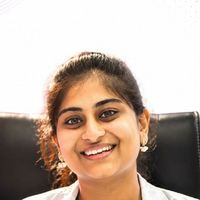
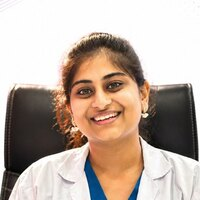
The doctors' faces are cut from the eye line, not the top of the picture
All eleven circles were framed wrong, and in the same way. The crops were
200px squares taken from the TOP of each 640x800 studio portrait, which is
not where a face is. The circular mask then clipped the top of every head
and left a crescent of empty white under every chin, and because the
subjects stand at different heights in their portraits, no two heads came
out the same size or on the same line.

Cut from the eye line now. macOS Vision (built in, no model to download)
gives the face box and the eye centre for each portrait; the window is
2.55x the face height, centred on the eyes, with the eye line 44% of the
way down it, clamped to the edges of the picture. All eleven heads come
out the same size, centred, with the hair inside the circle.

Tried 2.45 and 2.62 first: the tight one let two heads touch the top of
the circle, the loose one shrank the faces too far for a 62px avatar.

The filenames did not change, so the eleven img tags carry ?v= now —
without it a browser and the CDN both keep serving yesterday's framing.

tools/ keeps the two scripts and a README, so the crops can be redone if
the portraits are ever replaced rather than being a one-off nobody can
reproduce. Old crops are in git if these need to be backed out.

Verified at 1728x967: 11 images, none broken, all 200x200, rendering at
62px (founder 40px), object-fit cover inside a 50% radius.

diff --git a/index.html b/index.html
@@ -287,12 +287,17 @@
              made that column 330px taller than the text beside it; it is a row
              of its own across the full hero now. He is kept out of the MD (DVL)
              row on purpose — his degree is an MBA — and carries his own line.
-             The faces are 330px squares cut from the top of the studio portraits
-             in assets/img/doctors/ and written to .../doctors/face/ — 4-6 KB each
-             rather than the 60 KB full-length portrait, for a 62px circle. -->
+             The faces were 330px squares cut from the TOP of the studio portraits,
+             which is not where the faces are: the circle clipped the top of every
+             head and left a crescent of empty white under every chin. They are cut
+             from the eye line now — macOS Vision gives the face box and the eye
+             centre, the window is 2.55x the face height, and the eyes sit 44% down
+             it, so all eleven heads come out the same size and centred in the
+             circle. 6-9 KB each rather than the 60 KB full-length portrait, for a
+             62px circle. Re-cut with the script if the portraits are replaced. -->
         <div class="hdocs">
           <a class="hdocs__founder" href="#doctors" title="Nagaraju Bandaru — వ్యవస్థాపకుడు &amp; CEO, MEDICARE GROUP OF HOSPITALS, PHARMACIES &amp; DIAGNOSTICS · SINCE 2013">
-            <img src="assets/img/doctors/face/nagaraju.jpg" width="200" height="200" alt="Nagaraju Bandaru — వ్యవస్థాపకుడు, Medicare Group" decoding="async">
+            <img src="assets/img/doctors/face/nagaraju.jpg?v=202611100030" width="200" height="200" alt="Nagaraju Bandaru — వ్యవస్థాపకుడు, Medicare Group" decoding="async">
             <span>
               <strong>Nagaraju Bandaru <em>నాగరాజు బండారు</em></strong>
               <small><svg class="hdocs__crown" viewBox="0 0 24 24" aria-hidden="true"><path d="M11.562 3.266a.5.5 0 0 1 .876 0L15.39 8.87a1 1 0 0 0 1.516.294L21.183 5.5a.5.5 0 0 1 .798.519l-2.834 10.246a1 1 0 0 1-.956.734H5.81a1 1 0 0 1-.957-.734L2.02 6.02a.5.5 0 0 1 .798-.519l4.276 3.664a1 1 0 0 0 1.516-.294z"/><path d="M5 21h14"/></svg> వ్యవస్థాపకుడు · Founder &amp; CEO</small>
@@ -301,16 +306,16 @@
 
           <p class="hdocs__head"><svg class="ic" viewBox="0 0 24 24" aria-hidden="true"><path d="M20 13c0 5-3.5 7.5-7.66 8.95a1 1 0 0 1-.67-.01C7.5 20.5 4 18 4 13V6a1 1 0 0 1 1-1c2 0 4.5-1.2 6.24-2.72a1.17 1.17 0 0 1 1.52 0C14.51 3.81 17 5 19 5a1 1 0 0 1 1 1z"/><path d="m9 12 2 2 4-4"/></svg> చికిత్స చేసేది వీళ్ళే — <strong>10 మంది MD (DVL)</strong> చర్మవైద్య నిపుణులు</p>
           <ul class="hdocs__grid">
-            <li><a href="#doctors" title="Dr. Meghana Valeti — MBBS, MD (DVL) · కైకలూరు · ఆకివీడు · 10+ ఏళ్ల అనుభవం"><img src="assets/img/doctors/face/meghana.jpg" width="200" height="200" alt="Dr. Meghana Valeti — MBBS, MD (DVL), కైకలూరు · ఆకివీడు" decoding="async"><span><b>Dr. Meghana Valeti</b><i>MBBS, MD (DVL)</i></span></a></li>
-            <li><a href="#doctors" title="Dr. Sruthi — MBBS, MD (DVL) · భీమవరం · 6+ ఏళ్ల అనుభవం"><img src="assets/img/doctors/face/shruti.jpg" width="200" height="200" alt="Dr. Sruthi — MBBS, MD (DVL), భీమవరం" decoding="async"><span><b>Dr. Sruthi</b><i>MBBS, MD (DVL)</i></span></a></li>
-            <li><a href="#doctors" title="Dr. Satvika — MBBS, MD (DVL) · గన్నవరం · 7+ ఏళ్ల అనుభవం"><img src="assets/img/doctors/face/satvika.jpg" width="200" height="200" alt="Dr. Satvika — MBBS, MD (DVL), గన్నవరం" decoding="async"><span><b>Dr. Satvika</b><i>MBBS, MD (DVL)</i></span></a></li>
-            <li><a href="#doctors" title="Dr. Aditya Chitturi — MBBS, MD (DVL) · గన్నవరం · 4+ ఏళ్ల అనుభవం"><img src="assets/img/doctors/face/aditya.jpg" width="200" height="200" alt="Dr. Aditya Chitturi — MBBS, MD (DVL), గన్నవరం" decoding="async"><span><b>Dr. Aditya Chitturi</b><i>MBBS, MD (DVL)</i></span></a></li>
-            <li><a href="#doctors" title="Dr. Sowmya Nuthalapati — MBBS, MD (DVL) · నూజివీడు · 4+ ఏళ్ల అనుభవం"><img src="assets/img/doctors/face/soumya.jpg" width="200" height="200" alt="Dr. Sowmya Nuthalapati — MBBS, MD (DVL), నూజివీడు" decoding="async"><span><b>Dr. Sowmya Nuthalapati</b><i>MBBS, MD (DVL)</i></span></a></li>
-            <li><a href="#doctors" title="Dr. Kamma Sai Divija — MBBS, MD (DVL) · ఏలూరు · 5+ ఏళ్ల అనుభవం"><img src="assets/img/doctors/face/sai-divija.jpg" width="200" height="200" alt="Dr. Kamma Sai Divija — MBBS, MD (DVL), ఏలూరు" decoding="async"><span><b>Dr. Kamma Sai Divija</b><i>MBBS, MD (DVL)</i></span></a></li>
-            <li><a href="#doctors" title="Dr. Akhila Alla — MBBS, MD (DVL) · తాడేపల్లిగూడెం · 4+ ఏళ్ల అనుభవం"><img src="assets/img/doctors/face/akhila.jpg" width="200" height="200" alt="Dr. Akhila Alla — MBBS, MD (DVL), తాడేపల్లిగూడెం" decoding="async"><span><b>Dr. Akhila Alla</b><i>MBBS, MD (DVL)</i></span></a></li>
-            <li><a href="#doctors" title="Dr. Y. Sai Deepthi — MBBS, MD (DVL) · ఒంగోలు · 5+ ఏళ్ల అనుభవం"><img src="assets/img/doctors/face/sai-deepthi.jpg" width="200" height="200" alt="Dr. Y. Sai Deepthi — MBBS, MD (DVL), ఒంగోలు" decoding="async"><span><b>Dr. Y. Sai Deepthi</b><i>MBBS, MD (DVL)</i></span></a></li>
-            <li><a href="#doctors" title="Dr. S. Sudheer Kumar — MBBS, MD (DVL) · మచిలీపట్నం · 8+ ఏళ్ల అనుభవం"><img src="assets/img/doctors/face/sudheer-kumar.jpg" width="200" height="200" alt="Dr. S. Sudheer Kumar — MBBS, MD (DVL), మచిలీపట్నం" decoding="async"><span><b>Dr. S. Sudheer Kumar</b><i>MBBS, MD (DVL)</i></span></a></li>
-            <li><a href="#doctors" title="Dr. Ananya Bollineni — MBBS, MD (DVL) · గుడివాడ · 3+ ఏళ్ల అనుభవం"><img src="assets/img/doctors/face/ananya.jpg" width="200" height="200" alt="Dr. Ananya Bollineni — MBBS, MD (DVL), గుడివాడ" decoding="async"><span><b>Dr. Ananya Bollineni</b><i>MBBS, MD (DVL)</i></span></a></li>
+            <li><a href="#doctors" title="Dr. Meghana Valeti — MBBS, MD (DVL) · కైకలూరు · ఆకివీడు · 10+ ఏళ్ల అనుభవం"><img src="assets/img/doctors/face/meghana.jpg?v=202611100030" width="200" height="200" alt="Dr. Meghana Valeti — MBBS, MD (DVL), కైకలూరు · ఆకివీడు" decoding="async"><span><b>Dr. Meghana Valeti</b><i>MBBS, MD (DVL)</i></span></a></li>
+            <li><a href="#doctors" title="Dr. Sruthi — MBBS, MD (DVL) · భీమవరం · 6+ ఏళ్ల అనుభవం"><img src="assets/img/doctors/face/shruti.jpg?v=202611100030" width="200" height="200" alt="Dr. Sruthi — MBBS, MD (DVL), భీమవరం" decoding="async"><span><b>Dr. Sruthi</b><i>MBBS, MD (DVL)</i></span></a></li>
+            <li><a href="#doctors" title="Dr. Satvika — MBBS, MD (DVL) · గన్నవరం · 7+ ఏళ్ల అనుభవం"><img src="assets/img/doctors/face/satvika.jpg?v=202611100030" width="200" height="200" alt="Dr. Satvika — MBBS, MD (DVL), గన్నవరం" decoding="async"><span><b>Dr. Satvika</b><i>MBBS, MD (DVL)</i></span></a></li>
+            <li><a href="#doctors" title="Dr. Aditya Chitturi — MBBS, MD (DVL) · గన్నవరం · 4+ ఏళ్ల అనుభవం"><img src="assets/img/doctors/face/aditya.jpg?v=202611100030" width="200" height="200" alt="Dr. Aditya Chitturi — MBBS, MD (DVL), గన్నవరం" decoding="async"><span><b>Dr. Aditya Chitturi</b><i>MBBS, MD (DVL)</i></span></a></li>
+            <li><a href="#doctors" title="Dr. Sowmya Nuthalapati — MBBS, MD (DVL) · నూజివీడు · 4+ ఏళ్ల అనుభవం"><img src="assets/img/doctors/face/soumya.jpg?v=202611100030" width="200" height="200" alt="Dr. Sowmya Nuthalapati — MBBS, MD (DVL), నూజివీడు" decoding="async"><span><b>Dr. Sowmya Nuthalapati</b><i>MBBS, MD (DVL)</i></span></a></li>
+            <li><a href="#doctors" title="Dr. Kamma Sai Divija — MBBS, MD (DVL) · ఏలూరు · 5+ ఏళ్ల అనుభవం"><img src="assets/img/doctors/face/sai-divija.jpg?v=202611100030" width="200" height="200" alt="Dr. Kamma Sai Divija — MBBS, MD (DVL), ఏలూరు" decoding="async"><span><b>Dr. Kamma Sai Divija</b><i>MBBS, MD (DVL)</i></span></a></li>
+            <li><a href="#doctors" title="Dr. Akhila Alla — MBBS, MD (DVL) · తాడేపల్లిగూడెం · 4+ ఏళ్ల అనుభవం"><img src="assets/img/doctors/face/akhila.jpg?v=202611100030" width="200" height="200" alt="Dr. Akhila Alla — MBBS, MD (DVL), తాడేపల్లిగూడెం" decoding="async"><span><b>Dr. Akhila Alla</b><i>MBBS, MD (DVL)</i></span></a></li>
+            <li><a href="#doctors" title="Dr. Y. Sai Deepthi — MBBS, MD (DVL) · ఒంగోలు · 5+ ఏళ్ల అనుభవం"><img src="assets/img/doctors/face/sai-deepthi.jpg?v=202611100030" width="200" height="200" alt="Dr. Y. Sai Deepthi — MBBS, MD (DVL), ఒంగోలు" decoding="async"><span><b>Dr. Y. Sai Deepthi</b><i>MBBS, MD (DVL)</i></span></a></li>
+            <li><a href="#doctors" title="Dr. S. Sudheer Kumar — MBBS, MD (DVL) · మచిలీపట్నం · 8+ ఏళ్ల అనుభవం"><img src="assets/img/doctors/face/sudheer-kumar.jpg?v=202611100030" width="200" height="200" alt="Dr. S. Sudheer Kumar — MBBS, MD (DVL), మచిలీపట్నం" decoding="async"><span><b>Dr. S. Sudheer Kumar</b><i>MBBS, MD (DVL)</i></span></a></li>
+            <li><a href="#doctors" title="Dr. Ananya Bollineni — MBBS, MD (DVL) · గుడివాడ · 3+ ఏళ్ల అనుభవం"><img src="assets/img/doctors/face/ananya.jpg?v=202611100030" width="200" height="200" alt="Dr. Ananya Bollineni — MBBS, MD (DVL), గుడివాడ" decoding="async"><span><b>Dr. Ananya Bollineni</b><i>MBBS, MD (DVL)</i></span></a></li>
           </ul>
           <a class="hdocs__all" href="#doctors">అందరి అర్హతలు &amp; రిజిస్ట్రేషన్ నంబర్లు చూడండి →</a>
         </div>

diff --git a/tools/face-detect.swift b/tools/face-detect.swift
@@ -1,0 +1,44 @@
+import Foundation
+import Vision
+import AppKit
+
+// For each image: print  name  imgW imgH  faceX faceY faceW faceH  eyeX eyeY
+// Coordinates are pixels with the origin at the TOP-LEFT.
+for path in CommandLine.arguments.dropFirst() {
+    let name = (path as NSString).lastPathComponent
+    guard let img = NSImage(contentsOfFile: path),
+          let tiff = img.tiffRepresentation,
+          let bmp = NSBitmapImageRep(data: tiff),
+          let cg = bmp.cgImage else { print("\(name)\tERR"); continue }
+    let W = CGFloat(cg.width), H = CGFloat(cg.height)
+
+    let req = VNDetectFaceLandmarksRequest()
+    let handler = VNImageRequestHandler(cgImage: cg, options: [:])
+    do { try handler.perform([req]) } catch { print("\(name)\tERR"); continue }
+    guard let faces = req.results, !faces.isEmpty else { print("\(name)\tNONE"); continue }
+    // largest face
+    let f = faces.max(by: { $0.boundingBox.width * $0.boundingBox.height
+                          < $1.boundingBox.width * $1.boundingBox.height })!
+    let b = f.boundingBox                       // normalized, origin BOTTOM-left
+    let fx = b.origin.x * W
+    let fw = b.size.width * W
+    let fh = b.size.height * H
+    let fy = (1 - b.origin.y - b.size.height) * H   // flip to top-left
+
+    // eye centre from landmarks, if we have them
+    var ex = fx + fw/2, ey = fy + fh*0.42
+    if let lm = f.landmarks, let le = lm.leftEye, let re = lm.rightEye {
+        func centre(_ r: VNFaceLandmarkRegion2D) -> CGPoint {
+            var sx: CGFloat = 0, sy: CGFloat = 0
+            for p in r.normalizedPoints { sx += p.x; sy += p.y }
+            let n = CGFloat(r.pointCount)
+            return CGPoint(x: sx/n, y: sy/n)       // normalized INSIDE the face box
+        }
+        let l = centre(le), r = centre(re)
+        let mx = (l.x + r.x)/2, my = (l.y + r.y)/2
+        ex = fx + mx * fw
+        ey = fy + (1 - my) * fh                    // flip within the box
+    }
+    print(String(format: "%@\t%.0f\t%.0f\t%.1f\t%.1f\t%.1f\t%.1f\t%.1f\t%.1f",
+                 name, W, H, fx, fy, fw, fh, ex, ey))
+}

diff --git a/tools/face-crop.py b/tools/face-crop.py
@@ -1,0 +1,26 @@
+import sys, subprocess, os
+# S = K * faceH  (Vision's box is brow-to-chin; a whole head is ~1.6x that,
+#                 and we want the head to fill ~2/3 of the circle)
+K      = 2.55
+EYE_Y  = 0.44   # where the eye line sits down the square
+OUT    = sys.argv[1]
+SIZE   = int(sys.argv[2])
+os.makedirs(OUT, exist_ok=True)
+rows=[]
+for line in open(sys.argv[3]):
+    p=line.rstrip("\n").split("\t")
+    if len(p)!=9: continue
+    name,W,H,fx,fy,fw,fh,ex,ey = p[0],*(float(v) for v in p[1:])
+    S = K*fh
+    left = ex - S/2
+    top  = ey - EYE_Y*S
+    # keep the window inside the picture, shrinking only as a last resort
+    S = min(S, W, H)
+    left = max(0, min(left, W-S))
+    top  = max(0, min(top,  H-S))
+    src = os.path.join("assets/img/doctors", name)
+    dst = os.path.join(OUT, name)
+    subprocess.run(["magick", src, "-crop", f"{S:.0f}x{S:.0f}+{left:.0f}+{top:.0f}", "+repage",
+                    "-resize", f"{SIZE}x{SIZE}", "-strip", "-quality", "86", dst], check=True)
+    rows.append(f"{name:18} S={S:5.0f} left={left:5.0f} top={top:5.0f}  (eye {ex:.0f},{ey:.0f})")
+print("\n".join(rows))

diff --git a/tools/README-faces.md b/tools/README-faces.md
@@ -1,0 +1,20 @@
+# Re-cutting the doctor avatars
+
+`assets/img/doctors/face/*.jpg` are 200x200 circle-ready crops of the
+640x800 studio portraits in `assets/img/doctors/`.
+
+They used to be cut from the top of the portrait, which is not where the
+face is — the circular mask clipped the top of every head and left empty
+white under every chin. They are cut from the eye line instead.
+
+    swift tools/face-detect.swift assets/img/doctors/*.jpg > /tmp/faces.tsv
+    python3 tools/face-crop.py assets/img/doctors/face 200 /tmp/faces.tsv
+
+`face-detect.swift` uses macOS Vision (built in, no model download) and
+prints, per portrait: image size, face box, and the eye centre, all in
+pixels from the top-left. `face-crop.py` takes a window 2.55x the face
+height, centred on the eye centre, with the eyes 44% of the way down it,
+clamped to the edges of the picture.
+
+Bump the `?v=` on the eleven `doctors/face/` img tags in index.html after
+re-cutting, or browsers keep the old framing — the filenames do not change.
